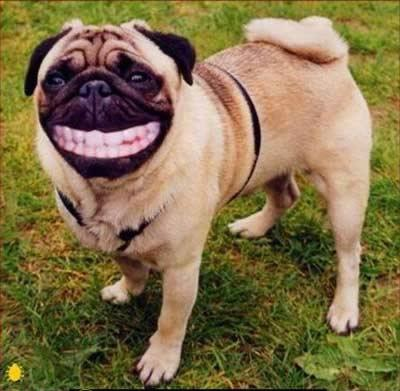
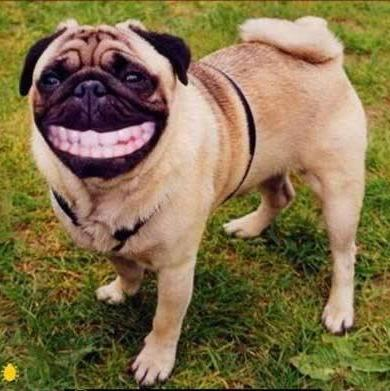
add photos

diff --git a/photos/tool.py b/photos/tool.py
@@ -1,0 +1,174 @@
+#coding: utf-8
+from PIL import Image
+import os
+import sys
+import json
+from datetime import datetime
+from ImageProcess import Graphics
+
+# 定义压缩比，数值越大，压缩越小
+SIZE_normal = 1.0
+SIZE_small = 1.5
+SIZE_more_small = 2.0
+SIZE_more_small_small = 3.0
+
+
+def make_directory(directory):
+    """创建目录"""
+    os.makedirs(directory)
+
+def directory_exists(directory):
+    """判断目录是否存在"""
+    if os.path.exists(directory):
+        return True
+    else:
+        return False
+
+def list_img_file(directory):
+    """列出目录下所有文件，并筛选出图片文件列表返回"""
+    old_list = os.listdir(directory)
+    # print old_list
+    new_list = []
+    for filename in old_list:
+        name,fileformat = filename.split(".")
+        if fileformat.lower() == "jpg" or fileformat.lower() == "png" or fileformat.lower() == "gif":
+            new_list.append(filename)
+    #print new_list
+    return new_list
+
+
+def print_help():
+    print("""
+    This program helps compress many image files
+    you can choose which scale you want to compress your img(jpg/png/etc)
+    1) normal compress(4M to 1M around)
+    2) small compress(4M to 500K around)
+    3) smaller compress(4M to 300K around)
+    """)
+
+def compress(choose, des_dir, src_dir, file_list):
+    """压缩算法，img.thumbnail对图片进行压缩，
+
+    参数
+    -----------
+    choose: str
+            选择压缩的比例，有4个选项，越大压缩后的图片越小
+    """
+    if choose == '1':
+        scale = SIZE_normal
+    if choose == '2':
+        scale = SIZE_small
+    if choose == '3':
+        scale = SIZE_more_small
+    if choose == '4':
+        scale = SIZE_more_small_small
+    for infile in file_list:
+        img = Image.open(src_dir+infile)
+        # size_of_file = os.path.getsize(infile)
+        w, h = img.size
+        img.thumbnail((int(w/scale), int(h/scale)))
+        img.save(des_dir + infile)
+def compress_photo():
+    '''调用压缩图片的函数
+    '''
+    src_dir, des_dir = "../photos/", "../../hexo/source/photos/min_photos/"
+
+    if directory_exists(src_dir):
+        if not directory_exists(src_dir):
+            make_directory(src_dir)
+        # business logic
+        file_list_src = list_img_file(src_dir)
+    if directory_exists(des_dir):
+        if not directory_exists(des_dir):
+            make_directory(des_dir)
+        file_list_des = list_img_file(des_dir)
+        # print file_list
+    '''如果已经压缩了，就不再压缩'''
+    for i in range(len(file_list_des)):
+        if file_list_des[i] in file_list_src:
+            file_list_src.remove(file_list_des[i])
+    compress('4', des_dir, src_dir, file_list_src)
+
+def handle_photo():
+    '''根据图片的文件名处理成需要的json格式的数据
+
+    -----------
+    最后将data.json文件存到博客的source/photos文件夹下
+    '''
+    src_dir, des_dir = "../photos/", "../../hexo/source/photos/min_photos/"
+    file_list = list_img_file(src_dir)
+    list_info = []
+    for i in range(len(file_list)):
+        filename = file_list[i]
+        date_str, info = filename.split("_")
+        info, _ = info.split(".")
+        date = datetime.strptime(date_str, "%Y-%m-%d")
+        year_month = date_str[0:7]
+        if i == 0:  # 处理第一个文件
+            new_dict = {"date": year_month, "arr":{'year': date.year,
+                                                                   'month': date.month,
+                                                                   'link': [filename],
+                                                                   'text': [info],
+                                                                   'type': ['image']
+                                                                   }
+                                        }
+            list_info.append(new_dict)
+        elif year_month != list_info[-1]['date']:  # 不是最后的一个日期，就新建一个dict
+            new_dict = {"date": year_month, "arr":{'year': date.year,
+                                                   'month': date.month,
+                                                   'link': [filename],
+                                                   'text': [info],
+                                                   'type': ['image']
+                                                   }
+                        }
+            list_info.append(new_dict)
+        else:  # 同一个日期
+            list_info[-1]['arr']['link'].append(filename)
+            list_info[-1]['arr']['text'].append(info)
+            list_info[-1]['arr']['type'].append('image')
+    list_info.reverse()  # 翻转
+    final_dict = {"list": list_info}
+    with open("../../hexo/source/photos/data.json","w") as fp:
+        json.dump(final_dict, fp)
+
+def cut_photo():
+    """裁剪算法
+
+    ----------
+    调用Graphics类中的裁剪算法，将src_dir目录下的文件进行裁剪（裁剪成正方形）
+    """
+    src_dir = "../photos/"
+    if directory_exists(src_dir):
+        if not directory_exists(src_dir):
+            make_directory(src_dir)
+        # business logic
+        file_list = list_img_file(src_dir)
+        # print file_list
+        if file_list:
+            print_help()
+            for infile in file_list:
+                img = Image.open(src_dir+infile)
+                Graphics(infile=src_dir+infile, outfile=src_dir + infile).cut_by_ratio()
+        else:
+            pass
+    else:
+        print("source directory not exist!")
+
+
+
+def git_operation():
+    '''
+    git 命令行函数，将仓库提交
+
+    ----------
+    需要安装git命令行工具，并且添加到环境变量中
+    '''
+    os.system('git add --all')
+    os.system('git commit -m "add photos"')
+    os.system('git push origin master')
+
+if __name__ == "__main__":
+    cut_photo()        # 裁剪图片，裁剪成正方形，去中间部分
+    compress_photo()   # 压缩图片，并保存到mini_photos文件夹下
+    git_operation()    # 提交到github仓库
+    handle_photo()     # 将文件处理成json格式，存到博客仓库中

diff --git a/photos/ImageProcess.py b/photos/ImageProcess.py
@@ -1,0 +1,81 @@
+# coding=utf-8
+from PIL import Image
+import shutil
+import os
+
+class Graphics:
+    '''图片处理类
+
+    参数
+    -------
+    infile: 输入文件路径
+    outfile: 输出文件路径
+    '''
+    def __init__(self, infile, outfile):
+        self.infile = infile
+        self.outfile = outfile
+
+    def fixed_size(self, width, height):
+        """按照固定尺寸处理图片"""
+        im = Image.open(self.infile)
+        out = im.resize((width, height),Image.ANTIALIAS)
+        out.save(self.outfile)
+
+
+    def resize_by_width(self, w_divide_h):
+        """按照宽度进行所需比例缩放"""
+        im = Image.open(self.infile)
+        (x, y) = im.size
+        x_s = x
+        y_s = x/w_divide_h
+        out = im.resize((x_s, y_s), Image.ANTIALIAS)
+        out.save(self.outfile)
+
+
+    def resize_by_height(self, w_divide_h):
+        """按照高度进行所需比例缩放"""
+        im = Image.open(self.infile)
+        (x, y) = im.size
+        x_s = y*w_divide_h
+        y_s = y
+        out = im.resize((x_s, y_s), Image.ANTIALIAS)
+        out.save(self.outfile)
+
+
+    def resize_by_size(self, size):
+        """按照生成图片文件大小进行处理(单位KB)"""
+        size *= 1024
+        im = Image.open(self.infile)
+        size_tmp = os.path.getsize(self.infile)
+        q = 100
+        while size_tmp > size and q > 0:
+            print (q)
+            out = im.resize(im.size, Image.ANTIALIAS)
+            out.save(self.outfile, quality=q)
+            size_tmp = os.path.getsize(self.outfile)
+            q -= 5
+        if q == 100:
+            shutil.copy(self.infile, self.outfile)
+
+
+    def cut_by_ratio(self):
+        """按照图片长宽进行分割
+
+        ------------
+        取中间的部分，裁剪成正方形
+        """
+        im = Image.open(self.infile)
+        (x, y) = im.size
+        if x > y:
+            region = (int(x/2-y/2), 0, int(x/2+y/2), y)
+            #裁切图片
+            crop_img = im.crop(region)
+            #保存裁切后的图片
+            crop_img.save(self.outfile)
+        elif x < y:
+            region = (0, int(y/2-x/2), x, int(y/2+x/2))
+            #裁切图片
+            crop_img = im.crop(region)
+            #保存裁切后的图片
+            crop_img.save(self.outfile)
+

diff --git a/photos/test.py b/photos/test.py
@@ -1,0 +1,4 @@
+import tool
+import os
+#tool.list_img_file(os.getcwd())
+tool.handle_photo()
